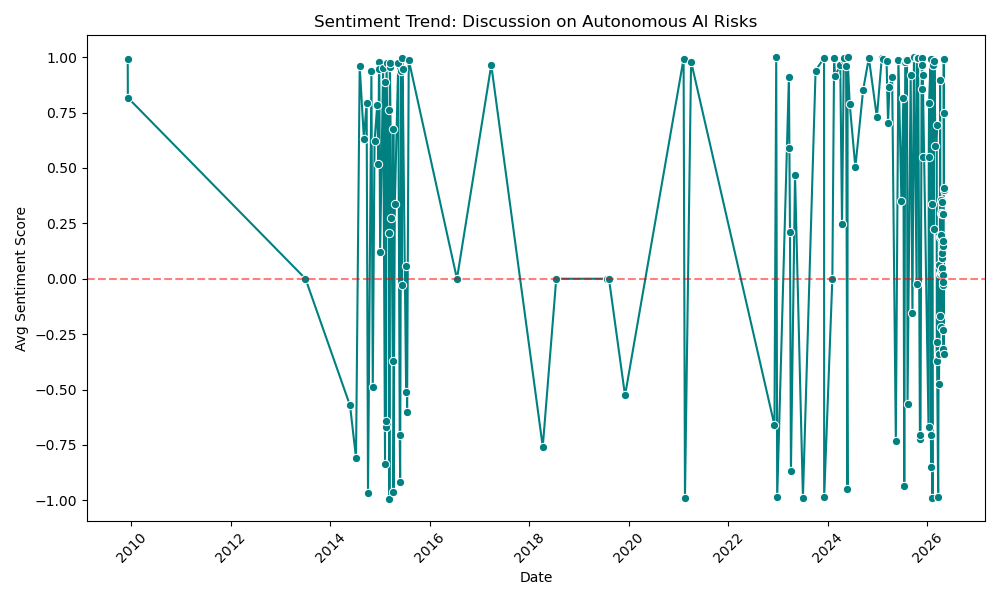
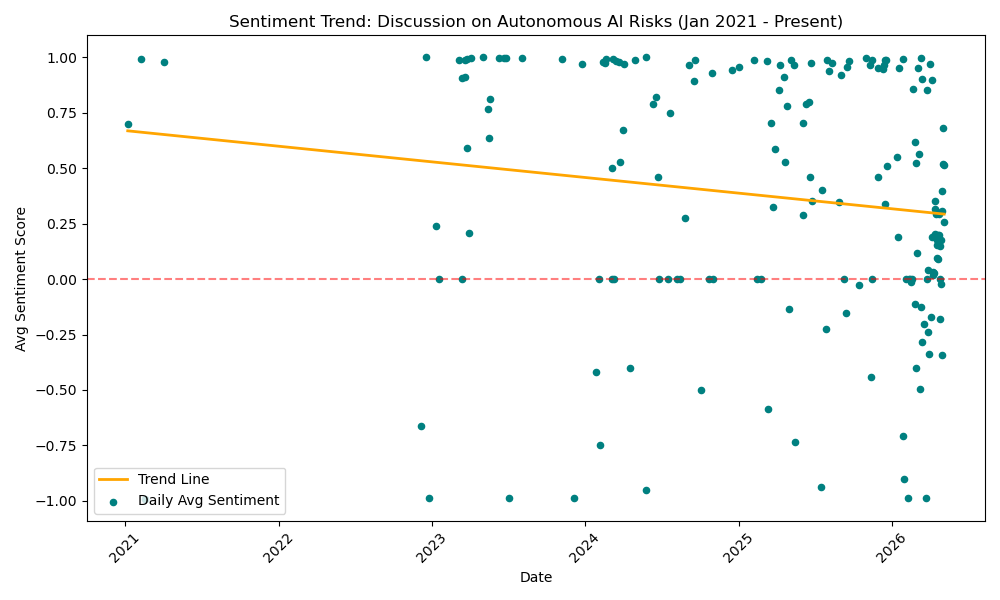
Update graph generator to use scatter plot with regression trendline

diff --git a/mythos_analyzer.py b/mythos_analyzer.py
@@ -39,22 +39,35 @@ class MythosAnalyzer:
         return "Neutral (Technical/Objective)"
 
     def plot_temporal_sentiment(self, df):
-        """Generates a line chart showing sentiment change over time."""
+        """Generates a scatter chart showing sentiment change over time with a trendline."""
         if len(df) < 2:
             print("Not enough data points for temporal plotting.")
             return
+
+        import matplotlib.dates as mdates
+        import numpy as np
 
         # Prepare data
         df['date_only'] = df['date'].dt.date
         temporal_df = df.groupby('date_only')['sentiment_score'].mean().reset_index()
         
         plt.figure(figsize=(10, 6))
-        sns.lineplot(data=temporal_df, x='date_only', y='sentiment_score', marker='o', color='teal')
+        
+        # Scatter plot instead of line plot
+        plt.scatter(temporal_df['date_only'], temporal_df['sentiment_score'], color='teal', s=20, label='Daily Avg Sentiment')
+        
+        # Regression trend line
+        temporal_df['date_num'] = mdates.date2num(temporal_df['date_only'])
+        z = np.polyfit(temporal_df['date_num'], temporal_df['sentiment_score'], 1)
+        p = np.poly1d(z)
+        plt.plot(temporal_df['date_only'], p(temporal_df['date_num']), color='orange', linestyle='-', linewidth=2, label='Trend Line')
+        
         plt.axhline(0, color='red', linestyle='--', alpha=0.5)
         plt.title("Sentiment Trend: Discussion on Autonomous AI Risks")
         plt.xlabel("Date")
         plt.ylabel("Avg Sentiment Score")
         plt.xticks(rotation=45)
+        plt.legend()
         plt.tight_layout()
         
         plot_filename = f"sentiment_trend_{datetime.now().strftime('%H%M')}.png"
